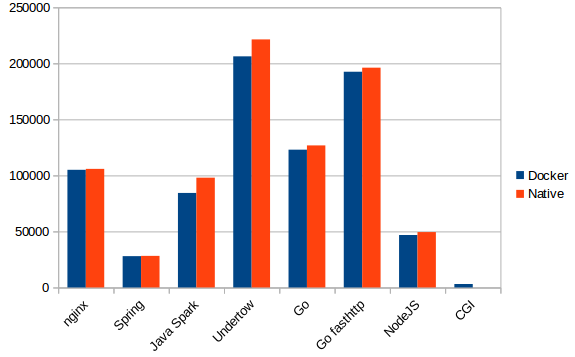
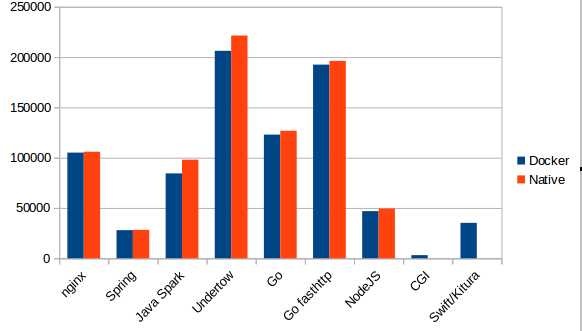
added swift results

Changed region(s): [[0.0, 0.0, 1.0, 1.0], [0.0, 0.0, 0.0887, 0.0604], [0.6504, 0.8761, 0.7096, 0.9366]]

diff --git a/README.md b/README.md
@@ -27,7 +27,7 @@ Mini bechmark, comparing the performance HTTP 'hello world' on different stacks:
 | Golang - fasthttp          | 192478              | 196169            |
 | NodeJS                     | 46803               | 49421             |
 | CGI                        | 3069                |                   |
-
+| Swift/Kitura               | 35145               |                   |
 
 # Test setup
 * Ubuntu 16.04.
